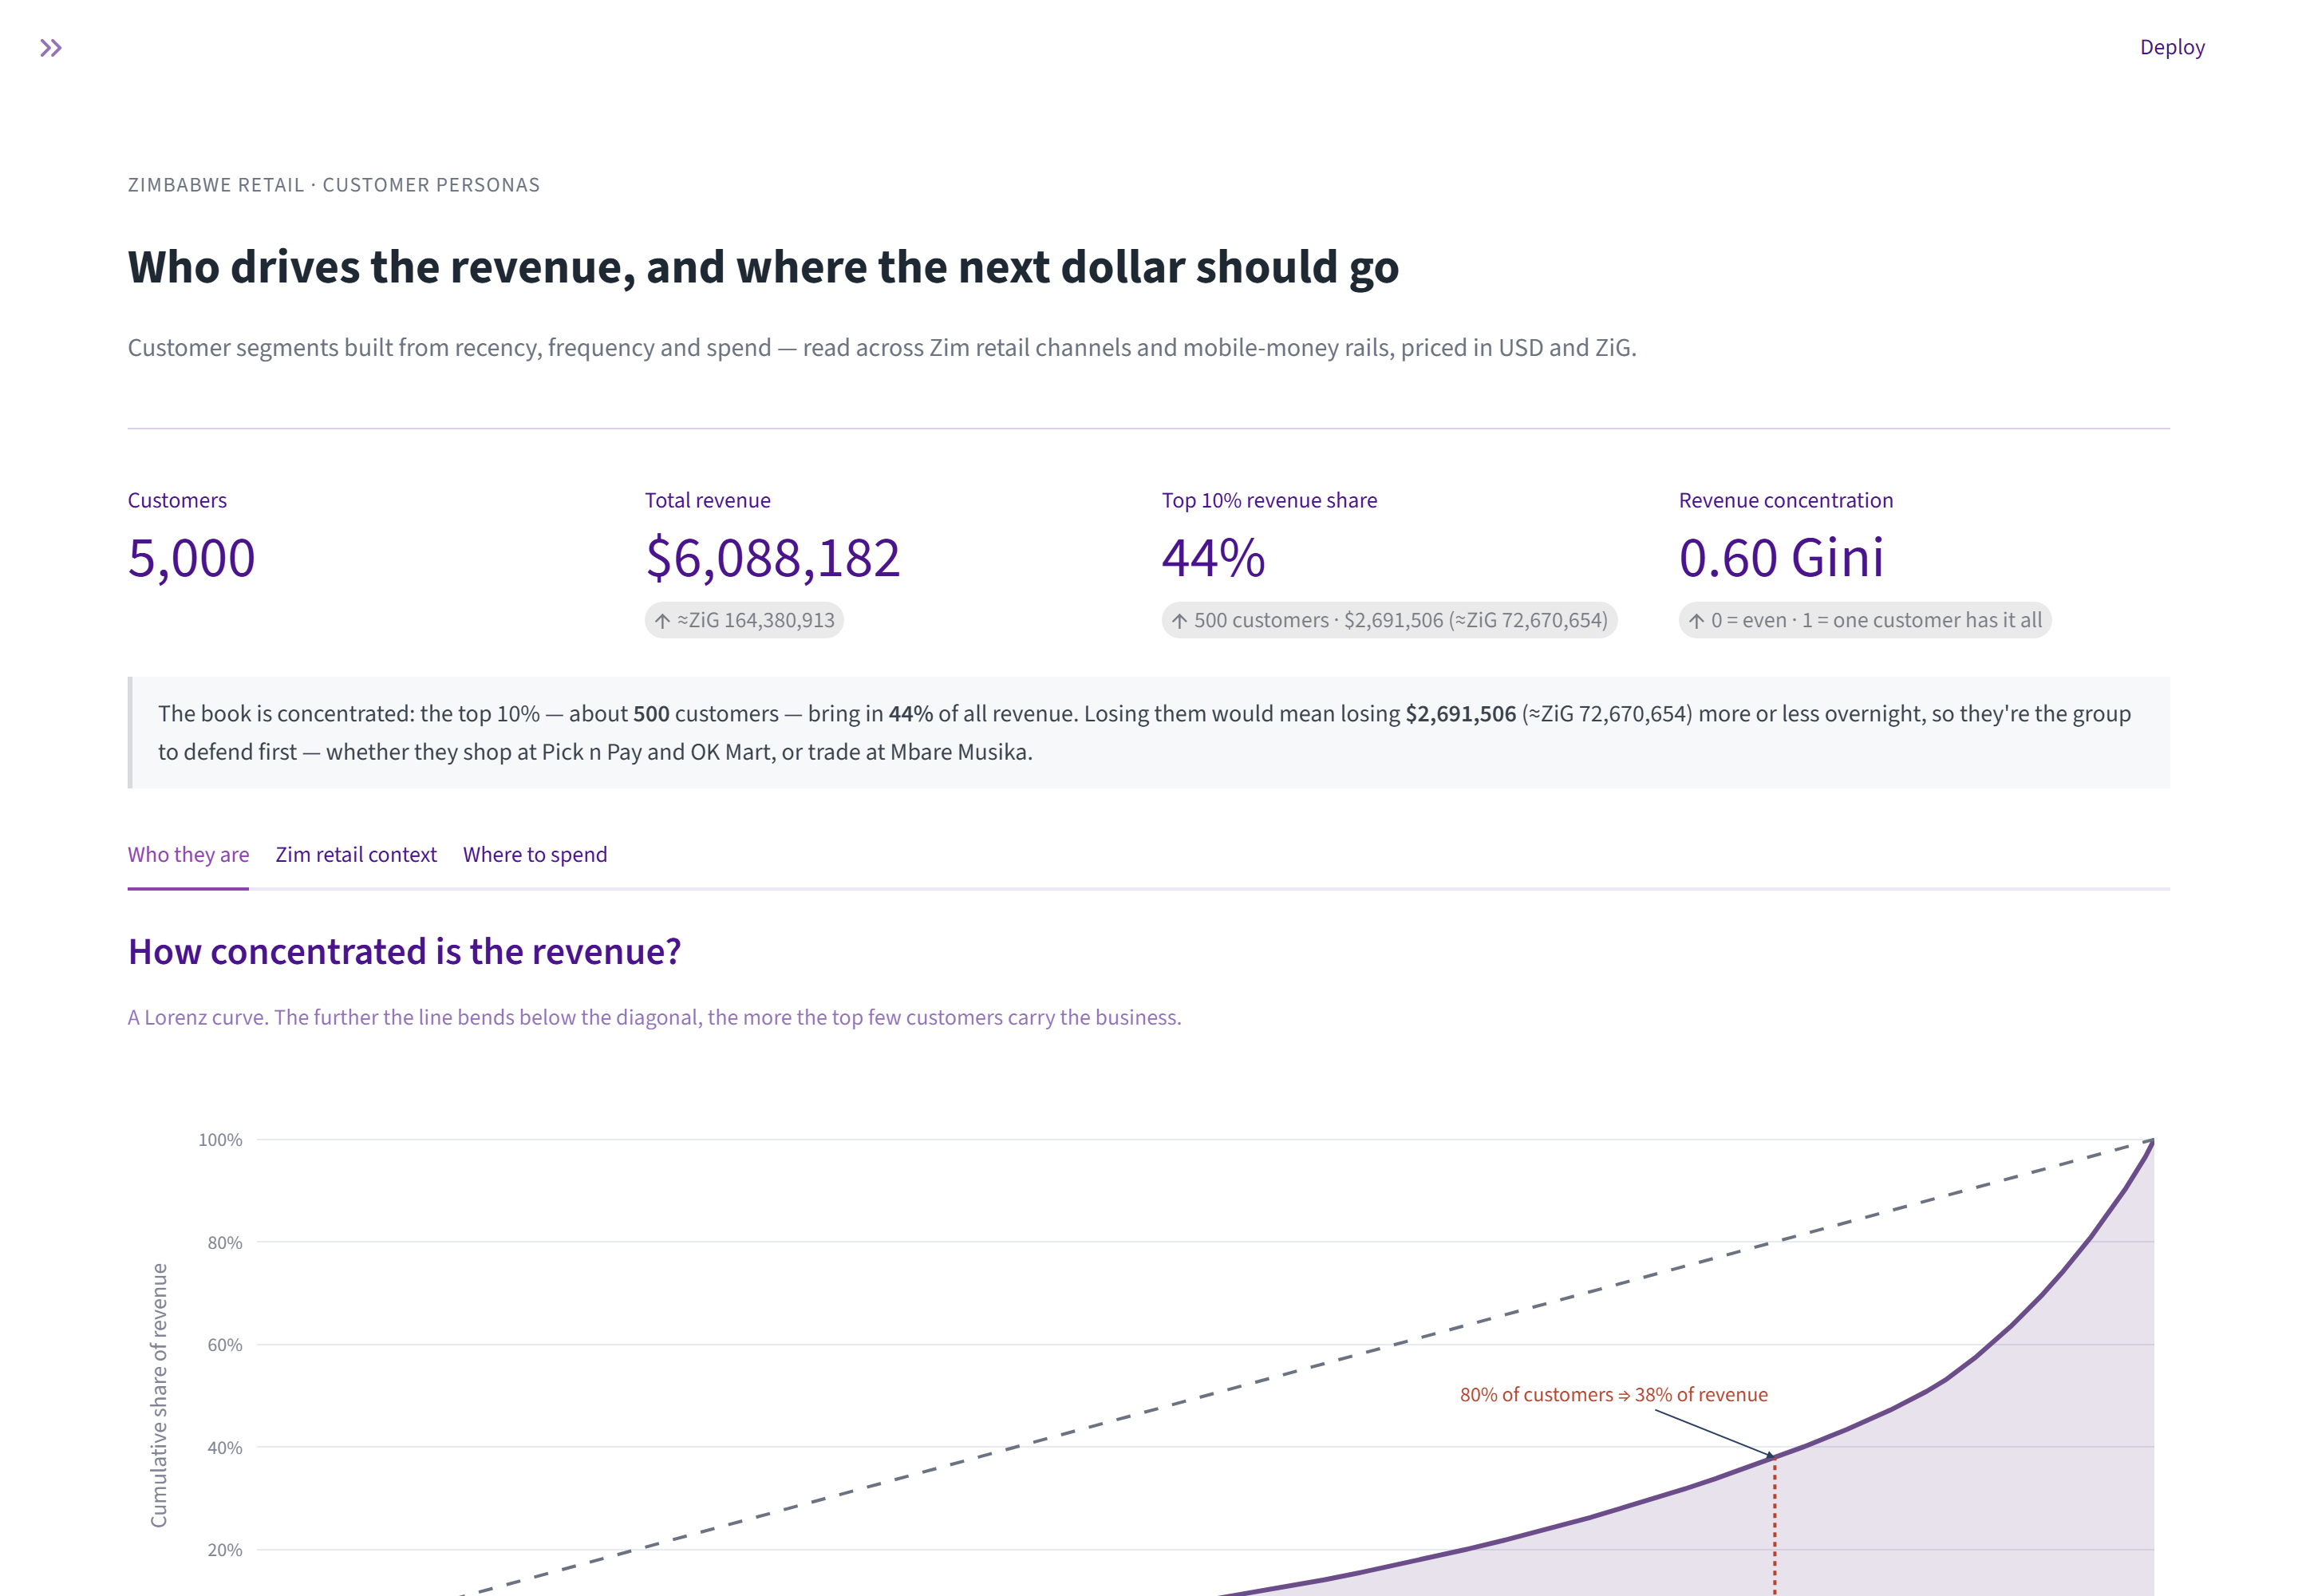
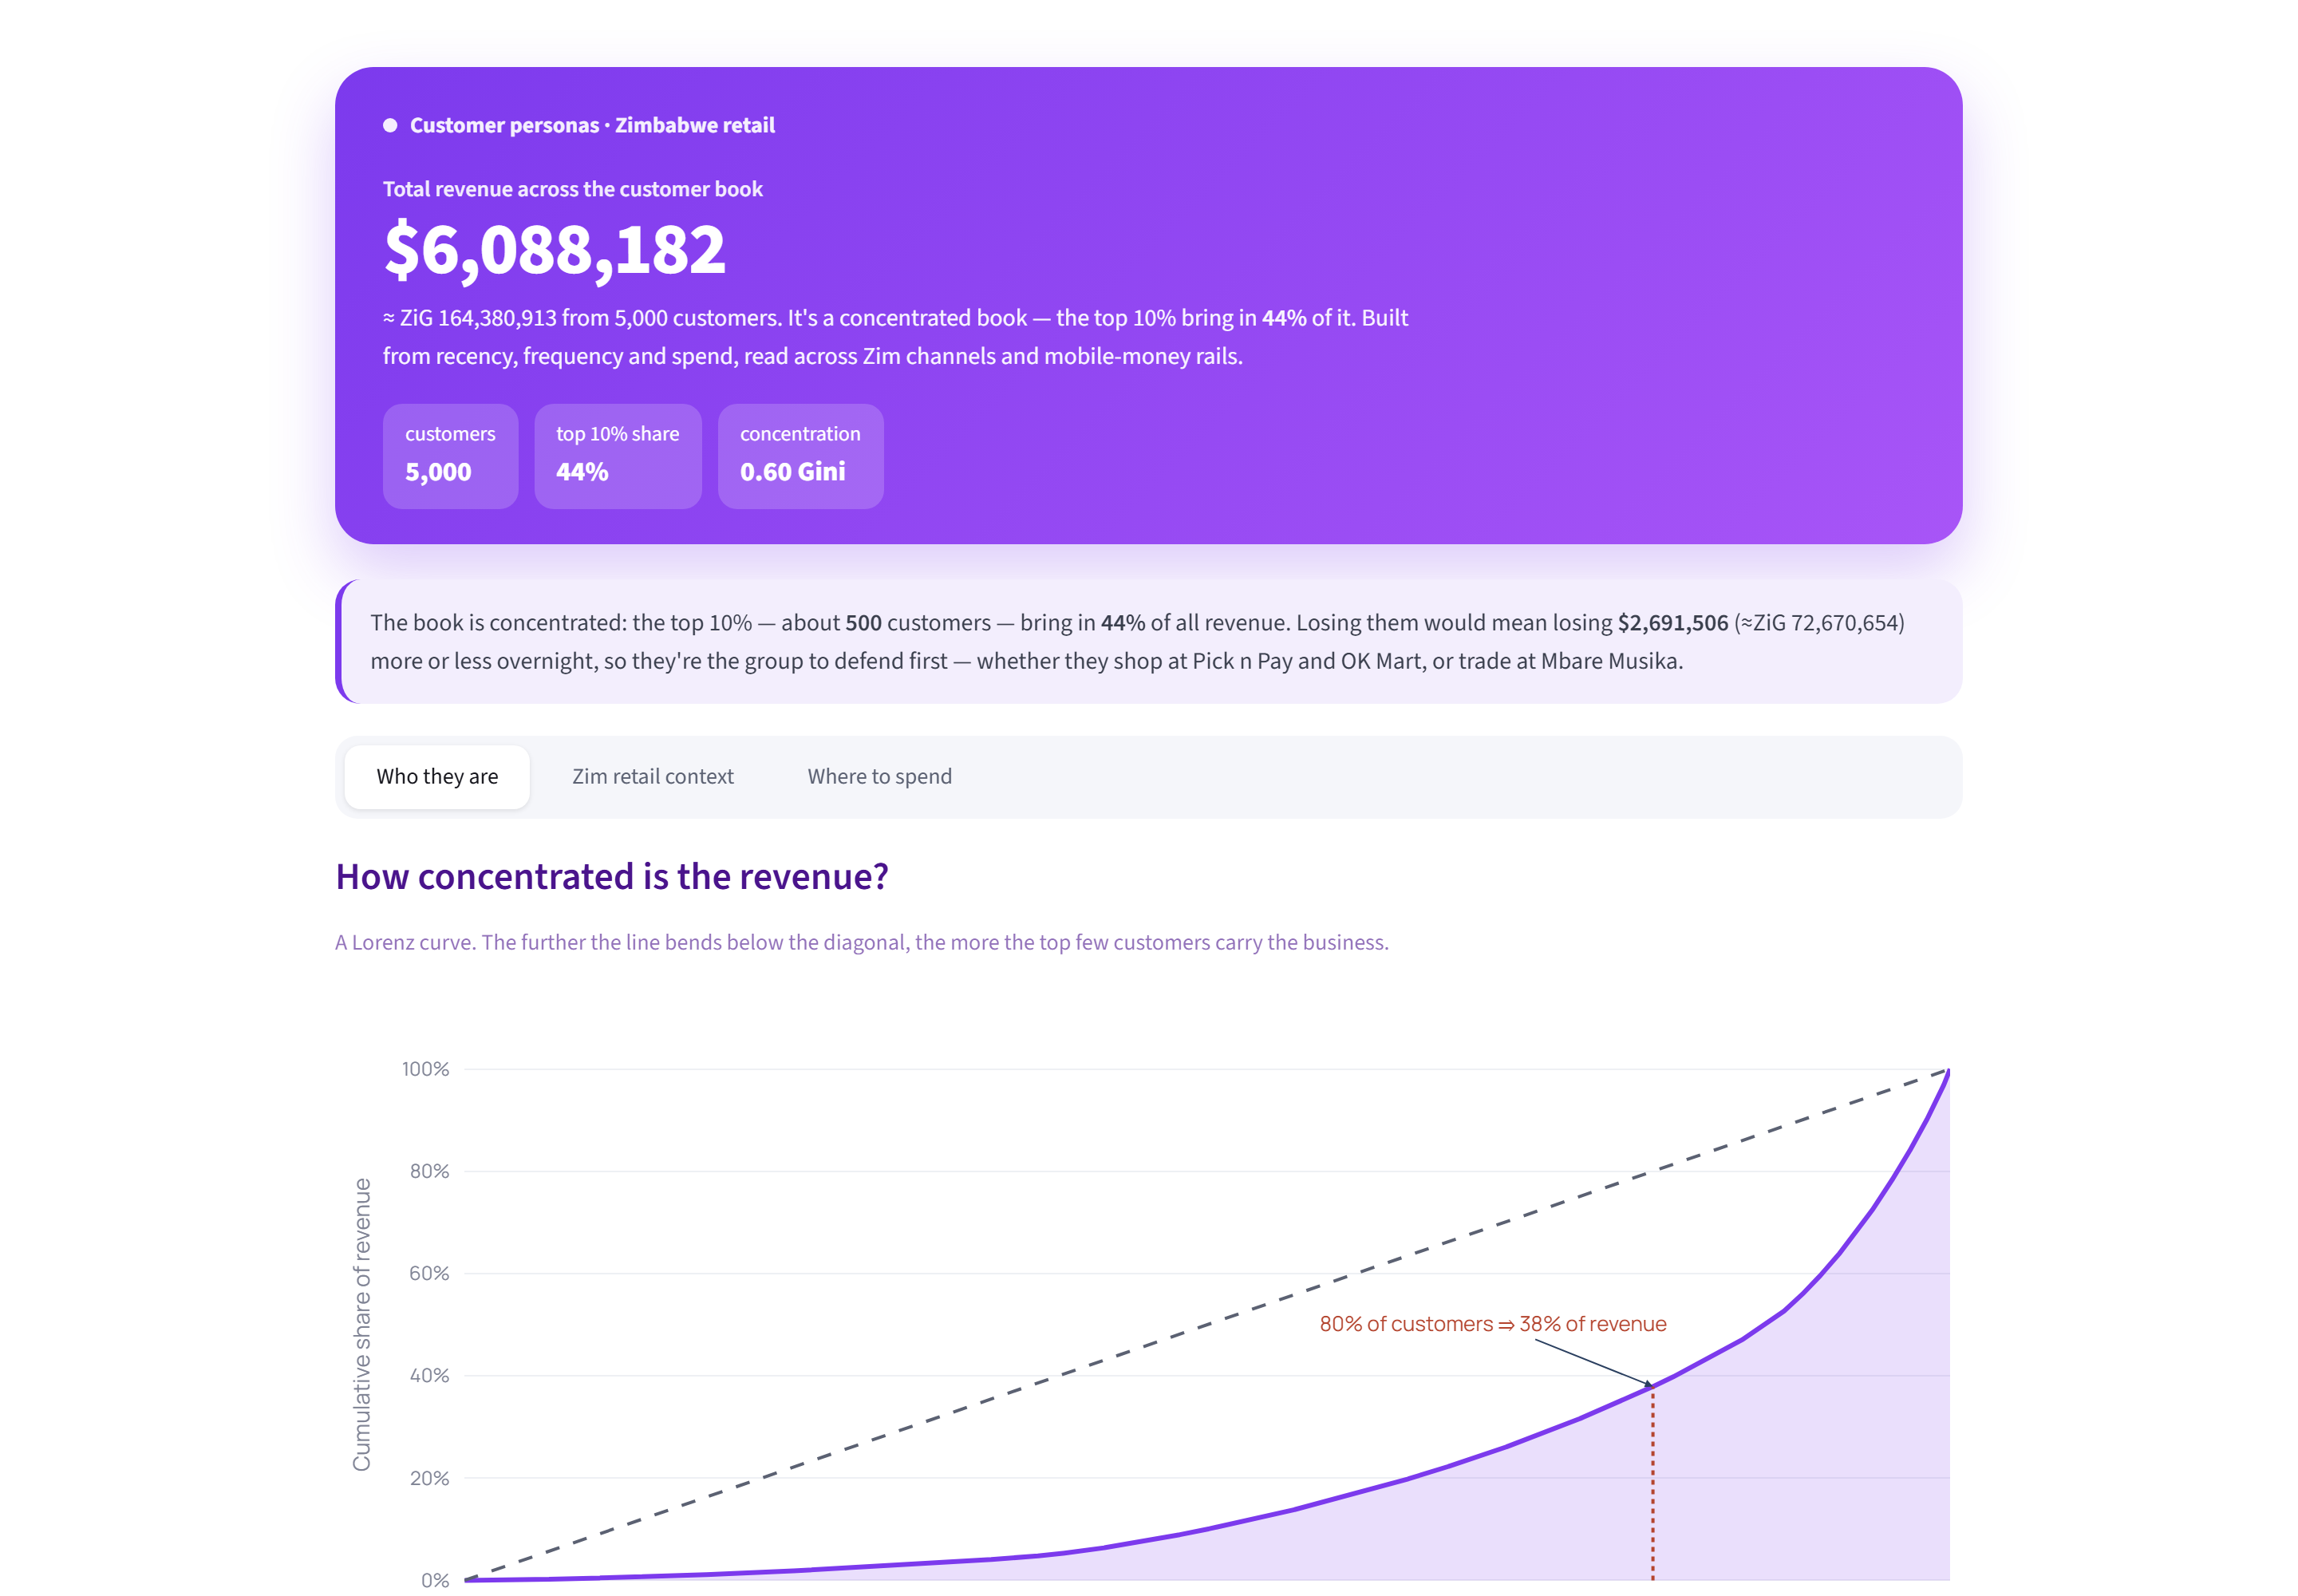
Redesign dashboard with a fintech-app look
Violet gradient hero with a revenue "balance" headline, refreshed persona
cards, metric cards, pill tabs and Manrope type. Refresh the preview.

diff --git a/dashboard.py b/dashboard.py
@@ -30,11 +30,24 @@ INFORMAL_RETAILERS = ["Mbare Musika"]
 
 MOBILE_MONEY_OPTIONS = ["EcoCash", "OneMoney", "InnBucks", "Cash"]
 
-# A calm, professional palette — not the marketing-hero template look.
-INK = "#1f2933"
-MUTED = "#6b7280"
-ACCENT = "#6b4d8a"   # muted plum, used sparingly
+# ---- Fintech palette -------------------------------------------------------
+BRAND = "#7C3AED"      # violet
+BRAND2 = "#A855F7"     # lighter purple, for the hero gradient
+INK = "#16161D"
+MUTED = "#5B6172"
+BODY = "#5B6172"
+ACCENT = BRAND
+GOOD = "#16B364"
+WARN = "#FB8C00"
+BLUE = "#4C6FFF"
+CORAL = "#FF5A5F"
+GREY = "#9AA0AE"
+SOFT = "#F5F6FA"
+LINE = "#EEF0F4"
+FONT = "Manrope"
 PLOT_TEMPLATE = "plotly_white"
+PAY_COLORS = {"EcoCash": GOOD, "OneMoney": BLUE, "InnBucks": WARN, "Cash": GREY}
+CHANNEL_COLORS = {"Formal supermarket": BRAND, "Informal market": WARN}
 
 
 def zig(usd: float, dp: int = 0) -> str:
@@ -70,56 +83,97 @@ st.set_page_config(
 )
 
 st.markdown(
-    """
+    f"""
     <style>
-    #MainMenu, footer {visibility: hidden;}
+    @import url('https://fonts.googleapis.com/css2?family=Manrope:wght@400;500;600;700;800&display=swap');
+    html, body, [class*="css"], .stMarkdown, button, input, textarea {{
+        font-family: '{FONT}', system-ui, sans-serif;
+    }}
+    #MainMenu, header, footer {{ visibility: hidden; }}
+    .block-container {{ padding-top: 1.6rem; padding-bottom: 3rem; max-width: 1180px; }}
 
-    .persona-card {
-        background: white;
-        border-radius: 10px;
-        padding: 16px 20px;
-        margin: 8px 0;
-        border: 1px solid #e6e8eb;
-        border-left: 4px solid var(--persona-color, #6b4d8a);
-    }
-    .persona-card h4 { margin: 0 0 6px 0; font-size: 17px; color: #1f2933; }
-    .persona-card .meta { font-size: 13px; color: #6b7280; margin-bottom: 10px; }
-    .persona-card .action { font-size: 14px; color: #3a434d; }
-    .persona-card .why { font-size: 13px; color: #6b7280; margin-top: 6px; font-style: italic; }
+    .hero {{ background: linear-gradient(135deg, {BRAND} 0%, {BRAND2} 100%);
+        border-radius: 24px; padding: 26px 30px 22px 30px; color:#fff;
+        box-shadow: 0 18px 40px rgba(124,58,237,.26); }}
+    .hero .brand {{ font-size:14px; font-weight:700; opacity:.92; display:flex;
+        align-items:center; gap:8px; }}
+    .hero .dot {{ width:9px; height:9px; border-radius:50%; background:#fff; display:inline-block; }}
+    .hero .label {{ font-size:14px; opacity:.9; margin-top:18px; font-weight:600; }}
+    .hero .value {{ font-size:46px; font-weight:800; line-height:1.05; margin-top:2px; letter-spacing:-1px; }}
+    .hero .sub {{ font-size:15px; opacity:.95; margin-top:6px; max-width:660px; }}
+    .chips {{ display:flex; gap:10px; flex-wrap:wrap; margin-top:18px; }}
+    .chip {{ background: rgba(255,255,255,.18); border-radius:12px; padding:9px 14px; font-size:13px; }}
+    .chip b {{ font-size:17px; font-weight:800; display:block; }}
 
-    div[data-testid="stTabs"] button[data-baseweb="tab"] { font-weight: 600; }
+    .callout {{ border-radius:16px; padding:15px 18px; margin:6px 0 20px 0;
+        font-size:15px; line-height:1.6; color:#3a3f4d; }}
+    .sec {{ margin: 26px 0 4px 0; }}
+    .sec h3 {{ font-size:20px; font-weight:800; color:{INK}; margin:0; }}
+    .sec p {{ font-size:14px; color:{BODY}; margin:3px 0 0 0; }}
+
+    .persona-card {{ background:#fff; border-radius:16px; padding:16px 20px; margin:8px 0;
+        border:1px solid #F0F1F5; border-left:5px solid var(--persona-color, {BRAND});
+        box-shadow:0 1px 3px rgba(20,22,30,.05), 0 8px 22px rgba(20,22,30,.04); }}
+    .persona-card h4 {{ margin:0 0 6px 0; font-size:17px; font-weight:800; color:{INK}; }}
+    .persona-card .meta {{ font-size:13px; color:{BODY}; margin-bottom:10px; }}
+    .persona-card .action {{ font-size:14px; color:#3a3f4d; }}
+    .persona-card .why {{ font-size:13px; color:{GREY}; margin-top:6px; font-style:italic; }}
+
+    [data-testid="stMetric"] {{ background:#fff; border:1px solid #F0F1F5; border-radius:16px;
+        padding:14px 18px; box-shadow:0 1px 3px rgba(20,22,30,.05), 0 8px 22px rgba(20,22,30,.04); }}
+    [data-testid="stMetricValue"] {{ font-weight:800; color:{INK}; }}
+    [data-testid="stMetricLabel"] p {{ font-weight:600; color:{BODY}; }}
+
+    .stTabs [data-baseweb="tab-list"] {{ gap:6px; background:{SOFT}; padding:6px; border-radius:14px; }}
+    .stTabs [data-baseweb="tab"] {{ height:auto; padding:9px 20px; border-radius:10px;
+        font-weight:600; color:{BODY}; background:transparent; }}
+    .stTabs [aria-selected="true"] {{ background:#fff; color:{INK}; box-shadow:0 1px 3px rgba(0,0,0,.10); }}
+    .stTabs [data-baseweb="tab-highlight"], .stTabs [data-baseweb="tab-border"] {{ display:none; }}
     </style>
     """,
     unsafe_allow_html=True,
 )
 
 
-def note(text: str) -> None:
-    """A quiet analyst's note — sentence-case, no shouting, woven into the page."""
+def note(text: str, tone: str = "neutral") -> None:
+    bg = {"brand": "#F3EEFD", "good": "#E9FBF3", "warn": "#FFF6E9", "neutral": SOFT}[tone]
+    bar = {"brand": BRAND, "good": GOOD, "warn": WARN, "neutral": GREY}[tone]
     st.markdown(
-        f'<div style="border-left:3px solid #d7dbe0; background:#f7f8fa; '
-        f'padding:11px 16px; margin:4px 0 22px 0; color:#3a434d; '
-        f'font-size:15px; line-height:1.6;">{text}</div>',
+        f'<div class="callout" style="background:{bg};border-left:4px solid {bar};">{text}</div>',
         unsafe_allow_html=True,
     )
 
 
-def style_fig(fig, height=340):
+def section(title: str, sub: str | None = None) -> None:
+    st.markdown(
+        f'<div class="sec"><h3>{title}</h3>{f"<p>{sub}</p>" if sub else ""}</div>',
+        unsafe_allow_html=True,
+    )
+
+
+def style_fig(fig, height=340, legend=True):
     fig.update_layout(
         template=PLOT_TEMPLATE,
         height=height,
-        margin=dict(l=10, r=10, t=30, b=10),
-        font=dict(color=INK, size=13),
+        margin=dict(l=8, r=8, t=34, b=8),
+        font=dict(family=FONT, color=INK, size=13),
+        paper_bgcolor="rgba(0,0,0,0)",
+        plot_bgcolor="rgba(0,0,0,0)",
+        showlegend=legend,
     )
+    if fig.layout.title.text:
+        fig.update_layout(title_font=dict(family=FONT, size=15, color=INK))
+    fig.update_xaxes(gridcolor=LINE, zeroline=False)
+    fig.update_yaxes(gridcolor=LINE, zeroline=False)
     return fig
 
 
 PERSONA_COLOURS = {
-    "Loyal high-value": "#4b9e7a",
-    "Regulars": "#5b8aa6",
-    "New customers": "#c98a3a",
-    "One-time buyers": "#8a929b",
-    "At-risk / lapsed": "#b4452f",
+    "Loyal high-value": GOOD,
+    "Regulars": BLUE,
+    "New customers": WARN,
+    "One-time buyers": GREY,
+    "At-risk / lapsed": CORAL,
 }
 
 
@@ -222,35 +276,31 @@ gini = float(1 - 2 * _trapz(cum_share, dx=1 / len(sorted_m)))
 
 st.markdown(
     f"""
-    <div style="margin:-6px 0 6px 0;">
-      <div style="font-size:13px; letter-spacing:.8px; color:{MUTED};
-                  text-transform:uppercase;">Zimbabwe retail &middot; customer personas</div>
-      <h1 style="margin:2px 0 4px 0; font-size:30px; font-weight:700; color:{INK};">
-        Who drives the revenue, and where the next dollar should go</h1>
-      <div style="font-size:16px; color:{MUTED};">
-        Customer segments built from recency, frequency and spend — read across
-        Zim retail channels and mobile-money rails, priced in USD and ZiG.</div>
+    <div class="hero">
+      <div class="brand"><span class="dot"></span> Customer personas &middot; Zimbabwe retail</div>
+      <div class="label">Total revenue across the customer book</div>
+      <div class="value">${total_revenue:,.0f}</div>
+      <div class="sub">≈ ZiG {total_revenue * USD_TO_ZIG:,.0f} from {total_customers:,} customers.
+        It's a concentrated book — the top 10% bring in <b>{top10pct_share*100:.0f}%</b> of it.
+        Built from recency, frequency and spend, read across Zim channels and mobile-money rails.</div>
+      <div class="chips">
+        <span class="chip">customers <b>{total_customers:,}</b></span>
+        <span class="chip">top 10% share <b>{top10pct_share*100:.0f}%</b></span>
+        <span class="chip">concentration <b>{gini:.2f} Gini</b></span>
+      </div>
     </div>
     """,
     unsafe_allow_html=True,
 )
-st.divider()
-
-c1, c2, c3, c4 = st.columns(4)
-c1.metric("Customers", f"{total_customers:,}")
-c2.metric("Total revenue", f"${total_revenue:,.0f}",
-          f"≈ZiG {total_revenue * USD_TO_ZIG:,.0f}", delta_color="off")
-c3.metric("Top 10% revenue share", f"{top10pct_share*100:.0f}%",
-          f"{top10pct_n:,} customers · {zig(top10pct_revenue)}", delta_color="off")
-c4.metric("Revenue concentration", f"{gini:.2f} Gini",
-          "0 = even · 1 = one customer has it all", delta_color="off")
+st.write("")
 
 note(
     f"The book is concentrated: the top 10% — about <b>{top10pct_n:,}</b> customers — "
     f"bring in <b>{top10pct_share*100:.0f}%</b> of all revenue. Losing them would mean "
     f"losing <b>${top10pct_revenue:,.0f}</b> (≈ZiG {top10pct_revenue * USD_TO_ZIG:,.0f}) "
     f"more or less overnight, so they're the group to defend first — whether they shop "
-    f"at Pick n Pay and OK Mart, or trade at Mbare Musika."
+    f"at Pick n Pay and OK Mart, or trade at Mbare Musika.",
+    tone="brand",
 )
 
 # --------------------------------------------------------------------------- #
@@ -274,7 +324,7 @@ with tab_who:
         x=pct_customers, y=pct_revenue,
         mode="lines", fill="tozeroy", name="Lorenz",
         line=dict(color=ACCENT, width=3),
-        fillcolor="rgba(107, 77, 138, 0.16)",
+        fillcolor="rgba(124, 58, 237, 0.16)",
     ))
     fig.add_trace(go.Scatter(
         x=[0, 1], y=[0, 1], mode="lines", name="Perfect equality",
@@ -449,10 +499,7 @@ with tab_who:
         fig = px.pie(
             pay_sub, names="payment_method", values="customers", hole=0.45,
             color="payment_method",
-            color_discrete_map={
-                "EcoCash":  "#4b9e7a", "OneMoney": "#5b8aa6",
-                "InnBucks": "#c98a3a", "Cash":     "#8a929b",
-            },
+            color_discrete_map=PAY_COLORS,
         )
         fig.update_layout(legend=dict(orientation="v"))
         st.plotly_chart(style_fig(fig, 320), use_container_width=True)
@@ -543,7 +590,7 @@ with tab_who:
         PERSONA_COLOURS["New customers"], PERSONA_COLOURS["One-time buyers"],
         PERSONA_COLOURS["Regulars"], PERSONA_COLOURS["Loyal high-value"],
         PERSONA_COLOURS["At-risk / lapsed"],
-        "#4b9e7a", "#5b8aa6", "#3f8f72", "#8a929b",
+        GOOD, BLUE, GOOD, GREY,
     ]
     src, tgt, val, lcol = [], [], [], []
     for source, dests in transitions.items():
@@ -557,7 +604,7 @@ with tab_who:
             src.append(node_idx[source])
             tgt.append(node_idx[dest])
             val.append(n)
-            lcol.append("rgba(180, 69, 47, 0.32)" if "Churned" in dest else "rgba(107, 77, 138, 0.20)")
+            lcol.append("rgba(255, 90, 95, 0.34)" if "Churned" in dest else "rgba(124, 58, 237, 0.20)")
 
     fig = go.Figure(go.Sankey(
         node=dict(label=nodes, color=node_colors, pad=22, thickness=18,
@@ -606,9 +653,7 @@ with tab_zim:
             ch.sort_values("customers"),
             x="customers", y="channel", orientation="h",
             color="channel_type",
-            color_discrete_map={
-                "Formal supermarket": ACCENT, "Informal market": "#c98a3a",
-            },
+            color_discrete_map=CHANNEL_COLORS,
             text="customers",
         )
         fig.update_layout(legend=dict(orientation="h", y=-0.18),
@@ -630,9 +675,7 @@ with tab_zim:
             ch_rev.sort_values("revenue"),
             x="revenue", y="channel", orientation="h",
             color="channel_type",
-            color_discrete_map={
-                "Formal supermarket": ACCENT, "Informal market": "#c98a3a",
-            },
+            color_discrete_map=CHANNEL_COLORS,
             hover_data={"customers": True, "zig_revenue": ":,.0f"},
             text=ch_rev["revenue"].map(lambda x: f"${x:,.0f}"),
         )
@@ -662,10 +705,7 @@ with tab_zim:
     fig = px.bar(
         pay, x="persona", y="share", color="payment_method", barmode="stack",
         text=pay["share"].map(lambda x: f"{x*100:.0f}%"),
-        color_discrete_map={
-            "EcoCash":  "#4b9e7a", "OneMoney": "#5b8aa6",
-            "InnBucks": "#c98a3a", "Cash":     "#8a929b",
-        },
+        color_discrete_map=PAY_COLORS,
         labels={"share": "Share of persona", "persona": ""},
     )
     fig.update_layout(yaxis_tickformat=".0%",
@@ -744,7 +784,7 @@ with tab_budget:
     fig = px.bar(
         plan_long, x="persona", y="amount", color="kind",
         barmode="group",
-        color_discrete_map={"Spend": "#8a929b", "Expected return": "#4b9e7a"},
+        color_discrete_map={"Spend": GREY, "Expected return": GOOD},
         text=plan_long["amount"].map(lambda x: f"${x:,.0f}"),
         labels={"amount": "USD", "persona": ""},
     )